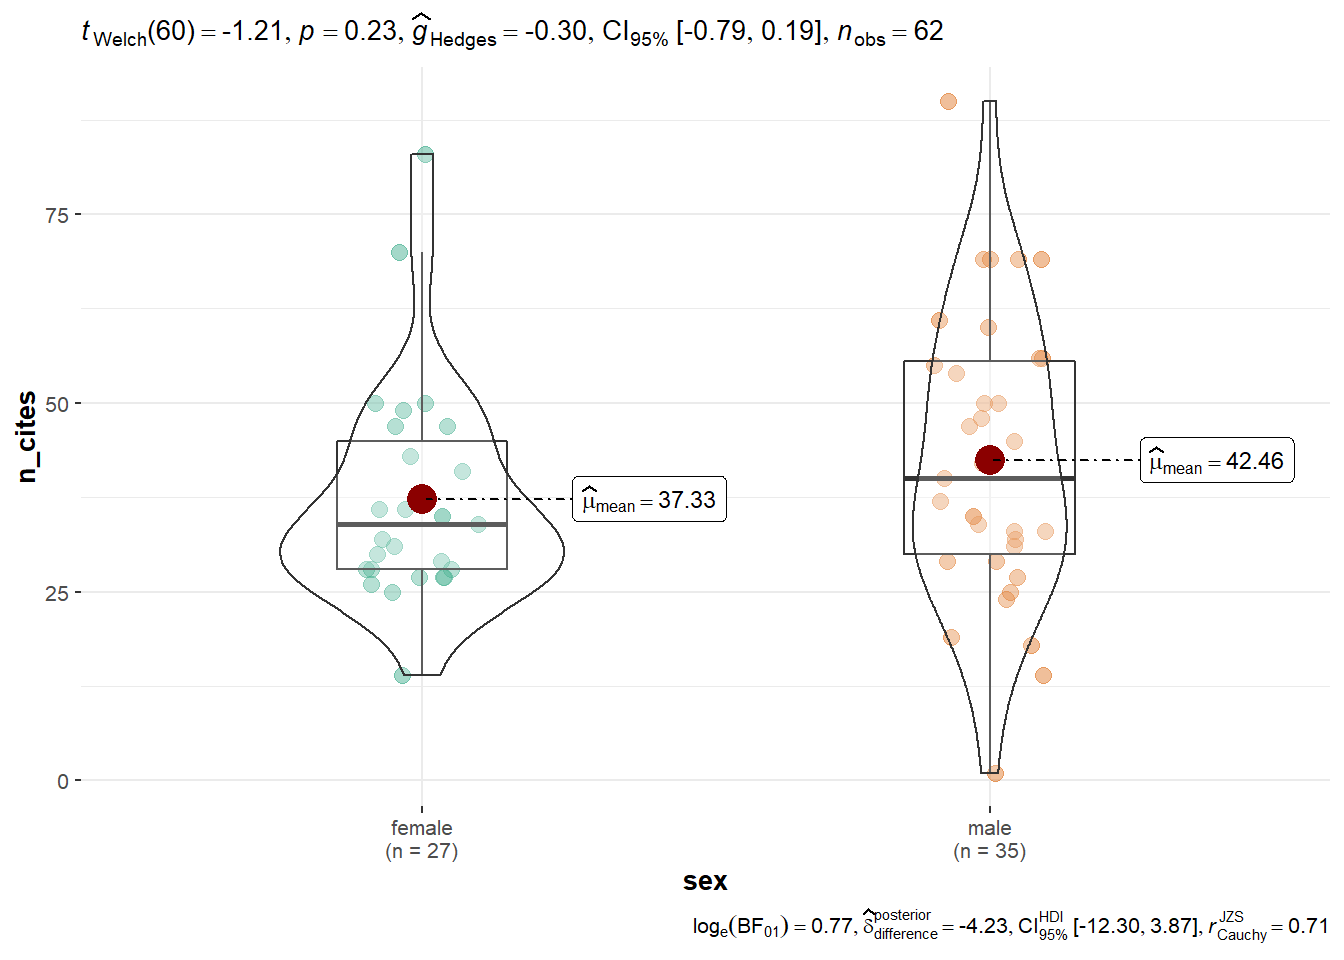
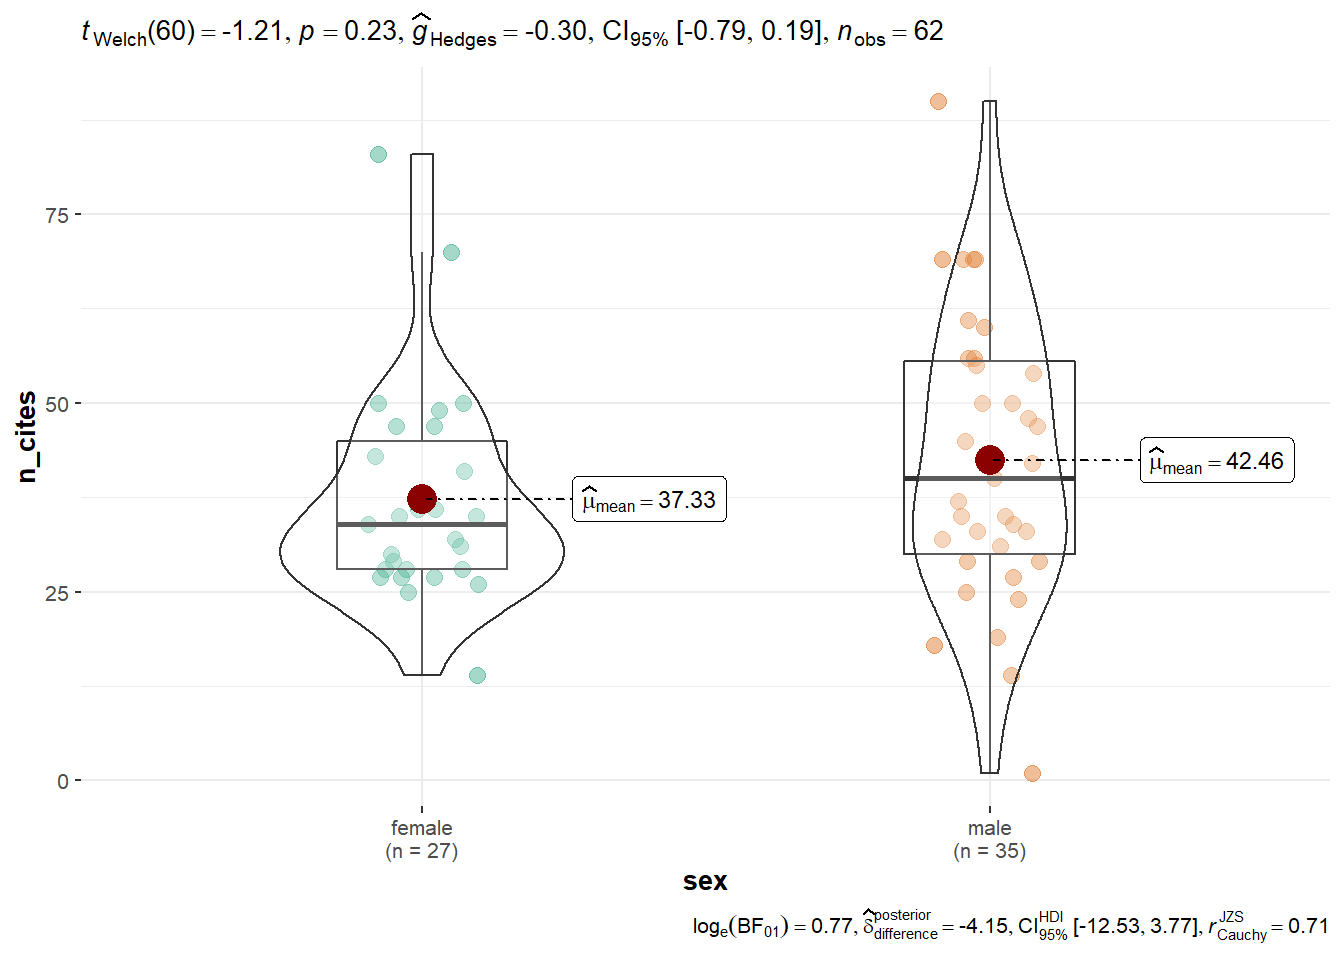
Add Q2 to 3A practice

diff --git a/_site/Day_3/Day3A_Practice.html b/_site/Day_3/Day3A_Practice.html
@@ -309,7 +309,7 @@ Click here for the answer key
 
 <div data-pagedtable="false">
   <script data-pagedtable-source="" type="application/json">
-{"columns":[{"label":["sex"],"name":[1],"type":["chr"],"align":["left"]},{"label":["n_cites"],"name":[2],"type":["dbl"],"align":["right"]},{"label":["std.dev"],"name":[3],"type":["dbl"],"align":["right"]},{"label":["iqr"],"name":[4],"type":["dbl"],"align":["right"]},{"label":["conf.low"],"name":[5],"type":["dbl"],"align":["right"]},{"label":["conf.high"],"name":[6],"type":["dbl"],"align":["right"]},{"label":["min"],"name":[7],"type":["dbl"],"align":["right"]},{"label":["max"],"name":[8],"type":["dbl"],"align":["right"]},{"label":["skewness"],"name":[9],"type":["dbl"],"align":["right"]},{"label":["kurtosis"],"name":[10],"type":["dbl"],"align":["right"]},{"label":["n.obs"],"name":[11],"type":["int"],"align":["right"]},{"label":["missing.obs"],"name":[12],"type":["int"],"align":["right"]},{"label":["expression"],"name":[13],"type":["list"],"align":["right"]},{"label":["n.expression"],"name":[14],"type":["chr"],"align":["left"]}],"data":[{"1":"female","2":"37.33333","3":"14.49934","4":"19","5":"32.05463","6":"42.41111","7":"14","8":"83","9":"1.5610480","10":"3.17683201","11":"27","12":"0","13":"<language>","14":"female\\n(n = 27)"},{"1":"male","2":"42.45714","3":"18.88096","4":"27","5":"36.52214","6":"49.53643","7":"1","8":"90","9":"0.2581231","10":"0.05289193","11":"35","12":"0","13":"<language>","14":"male\\n(n = 35)"}],"options":{"columns":{"min":{},"max":[10]},"rows":{"min":[10],"max":[10]},"pages":{}}}
+{"columns":[{"label":["sex"],"name":[1],"type":["chr"],"align":["left"]},{"label":["n_cites"],"name":[2],"type":["dbl"],"align":["right"]},{"label":["std.dev"],"name":[3],"type":["dbl"],"align":["right"]},{"label":["iqr"],"name":[4],"type":["dbl"],"align":["right"]},{"label":["conf.low"],"name":[5],"type":["dbl"],"align":["right"]},{"label":["conf.high"],"name":[6],"type":["dbl"],"align":["right"]},{"label":["min"],"name":[7],"type":["dbl"],"align":["right"]},{"label":["max"],"name":[8],"type":["dbl"],"align":["right"]},{"label":["skewness"],"name":[9],"type":["dbl"],"align":["right"]},{"label":["kurtosis"],"name":[10],"type":["dbl"],"align":["right"]},{"label":["n.obs"],"name":[11],"type":["int"],"align":["right"]},{"label":["missing.obs"],"name":[12],"type":["int"],"align":["right"]},{"label":["expression"],"name":[13],"type":["list"],"align":["right"]},{"label":["n.expression"],"name":[14],"type":["chr"],"align":["left"]}],"data":[{"1":"female","2":"37.33333","3":"14.49934","4":"19","5":"31.92130","6":"42.40926","7":"14","8":"83","9":"1.5610480","10":"3.17683201","11":"27","12":"0","13":"<language>","14":"female\\n(n = 27)"},{"1":"male","2":"42.45714","3":"18.88096","4":"27","5":"35.91571","6":"48.70643","7":"1","8":"90","9":"0.2581231","10":"0.05289193","11":"35","12":"0","13":"<language>","14":"male\\n(n = 35)"}],"options":{"columns":{"min":{},"max":[10]},"rows":{"min":[10],"max":[10]},"pages":{}}}
   </script>
 </div>
 </div>
@@ -342,6 +342,37 @@ Click here for the answer key
 </section>
 <section id="question-2" class="level2">
 <h2 class="anchored" data-anchor-id="question-2">Question 2</h2>
+<p>Using the <code>mpg</code> tibble from the {tidyverse} package, statistically test whether cars with the three different drive trains (<code>drv</code>) get significantly different city fuel efficiency (<code>cty</code>) on average. Calculate the effect size for this difference.</p>
+<p>
+</p><details>
+<summary>
+Click here for the answer key
+</summary>
+<blockquote class="blockquote">
+<div class="cell">
+<div class="sourceCode cell-code" id="cb6"><pre class="sourceCode r code-with-copy"><code class="sourceCode r"><span id="cb6-1"><a href="#cb6-1" aria-hidden="true" tabindex="-1"></a><span class="fu">oneway_anova</span>(mpg, <span class="at">x =</span> drv, <span class="at">y =</span> cty)</span></code><button title="Copy to Clipboard" class="code-copy-button"><i class="bi"></i></button></pre></div>
+<div class="cell-output-display">
+
+<div data-pagedtable="false">
+  <script data-pagedtable-source="" type="application/json">
+{"columns":[{"label":["statistic"],"name":[1],"type":["dbl"],"align":["right"]},{"label":["df"],"name":[2],"type":["dbl"],"align":["right"]},{"label":["df.error"],"name":[3],"type":["dbl"],"align":["right"]},{"label":["p.value"],"name":[4],"type":["dbl"],"align":["right"]},{"label":["method"],"name":[5],"type":["chr"],"align":["left"]},{"label":["effectsize"],"name":[6],"type":["chr"],"align":["left"]},{"label":["estimate"],"name":[7],"type":["dbl"],"align":["right"]},{"label":["conf.level"],"name":[8],"type":["dbl"],"align":["right"]},{"label":["conf.low"],"name":[9],"type":["dbl"],"align":["right"]},{"label":["conf.high"],"name":[10],"type":["dbl"],"align":["right"]},{"label":["conf.method"],"name":[11],"type":["chr"],"align":["left"]},{"label":["conf.distribution"],"name":[12],"type":["chr"],"align":["left"]},{"label":["n.obs"],"name":[13],"type":["int"],"align":["right"]},{"label":["expression"],"name":[14],"type":["list"],"align":["right"]}],"data":[{"1":"89.53976","2":"2","3":"78.87858","4":"5.069122e-21","5":"One-way analysis of means (not assuming equal variances)","6":"Omega2","7":"0.6838153","8":"0.95","9":"0.5882818","10":"1","11":"ncp","12":"F","13":"234","14":"<language>"}],"options":{"columns":{"min":{},"max":[10]},"rows":{"min":[10],"max":[10]},"pages":{}}}
+  </script>
+</div>
+</div>
+</div>
+<p>The effect size was <span class="math inline">\(\omega^2=0.68\)</span> and the difference was significant <span class="math inline">\((p&lt;.001)\)</span>.</p>
+<div class="cell">
+<div class="sourceCode cell-code" id="cb7"><pre class="sourceCode r code-with-copy"><code class="sourceCode r"><span id="cb7-1"><a href="#cb7-1" aria-hidden="true" tabindex="-1"></a><span class="fu">ggbetweenstats</span>(mpg, <span class="at">x =</span> drv, <span class="at">y =</span> cty)</span></code><button title="Copy to Clipboard" class="code-copy-button"><i class="bi"></i></button></pre></div>
+<div class="cell-output-display">
+<p><img src="Day3A_Practice_files/figure-html/unnamed-chunk-9-1.png" class="img-fluid" width="672"></p>
+</div>
+</div>
+</blockquote>
+</details>
+<p></p>
+</section>
+<section id="question-3" class="level2">
+<h2 class="anchored" data-anchor-id="question-3">Question 3</h2>
 <p>Did you bring your own data? If so, load it into R and explore it using the tools we learned this week. Wrangle it a bit and maybe do some basic statistics on it, estimating correlations and comparing group means. If not, then look through the datasets on the <a href="https://pittmethods.github.io/r4ss/Details/datasets.html">workshop website</a> and find one that is interesting to you; do the same process I described above to practice your skills in a more self-directed manner.</p>
 </section>
 <section id="resources" class="level2">
